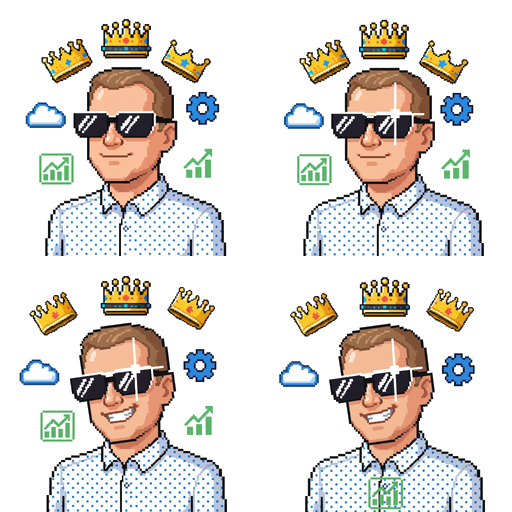
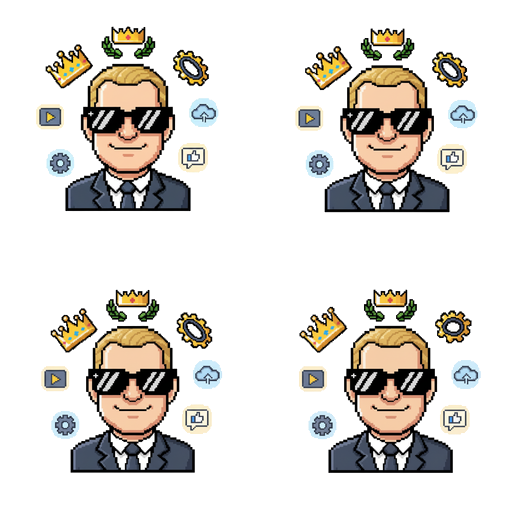
fix

diff --git a/index.html b/index.html
@@ -352,7 +352,7 @@
       const BONUS_SPRITES = [
         { key: 'b_invuln', url: './rud.png', frameWidth: 256, frameHeight: 256, size: 90, animate: true, enabled: true, type: 'invuln', weight: 3, label: 'Преграды не страшны!' },
         { key: 'b_halve', url: './nad.png', frameWidth: 256, frameHeight: 256, size: 90, animate: true, enabled: true, type: 'halve_speed', weight: 3, label: 'Гора задач! Двигаюсь медленнее...' },
-        { key: 'b_clear', url: './rev.png', frameWidth: 256, frameHeight: 256, size: 95, animate: true, enabled: true, type: 'clear_path', weight: 1, label: 'Чистый курс — никаких препятствий!' },
+        { key: 'b_clear', url: './latman.png', frameWidth: 256, frameHeight: 256, size: 95, animate: true, enabled: true, type: 'clear_path', weight: 1, label: 'Чистый курс — никаких препятствий!' },
         { key: 'b_coffeeMagnet', url: './ylia.png', frameWidth: 256, frameHeight: 256, size: 115, animate: true, enabled: true, type: 'coffee_magnet', weight: 2, label: 'Все кофе мира теперь моё ☕' },
       ];
 
